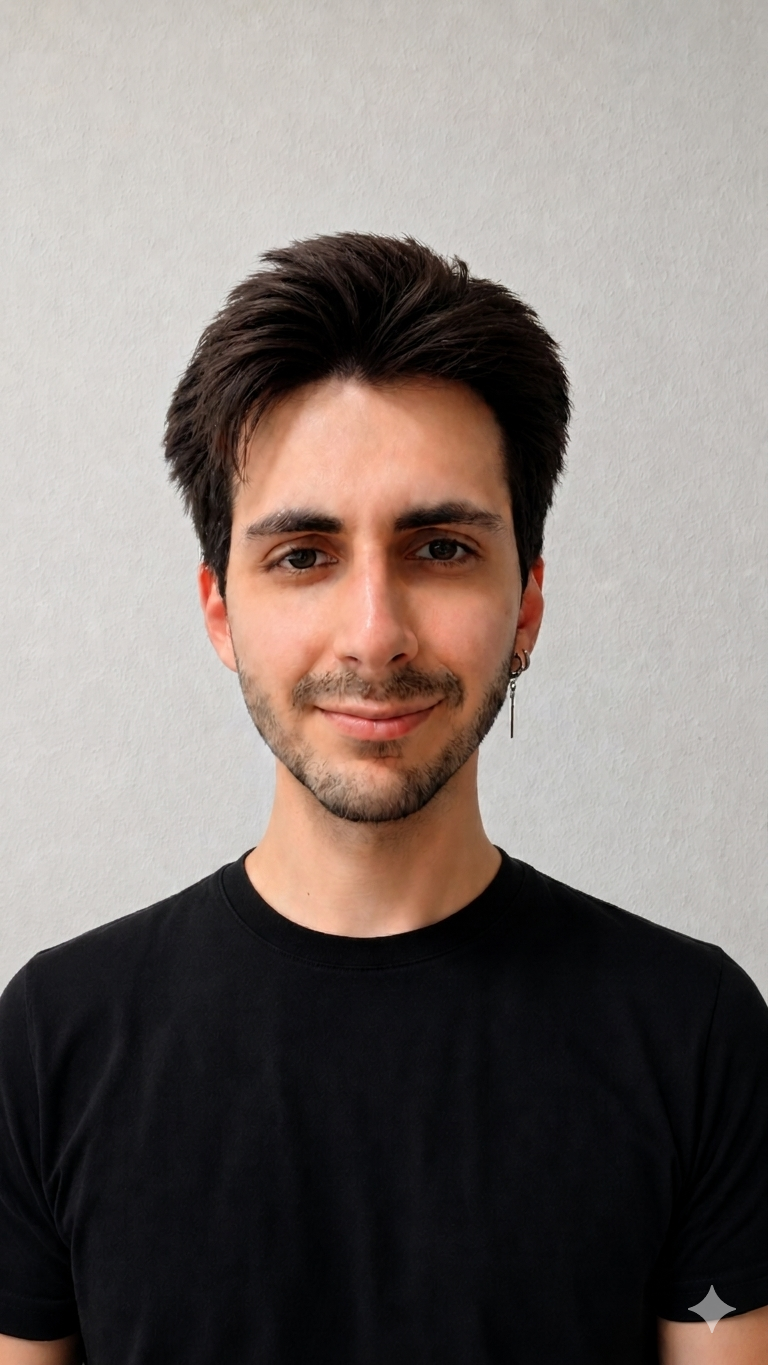
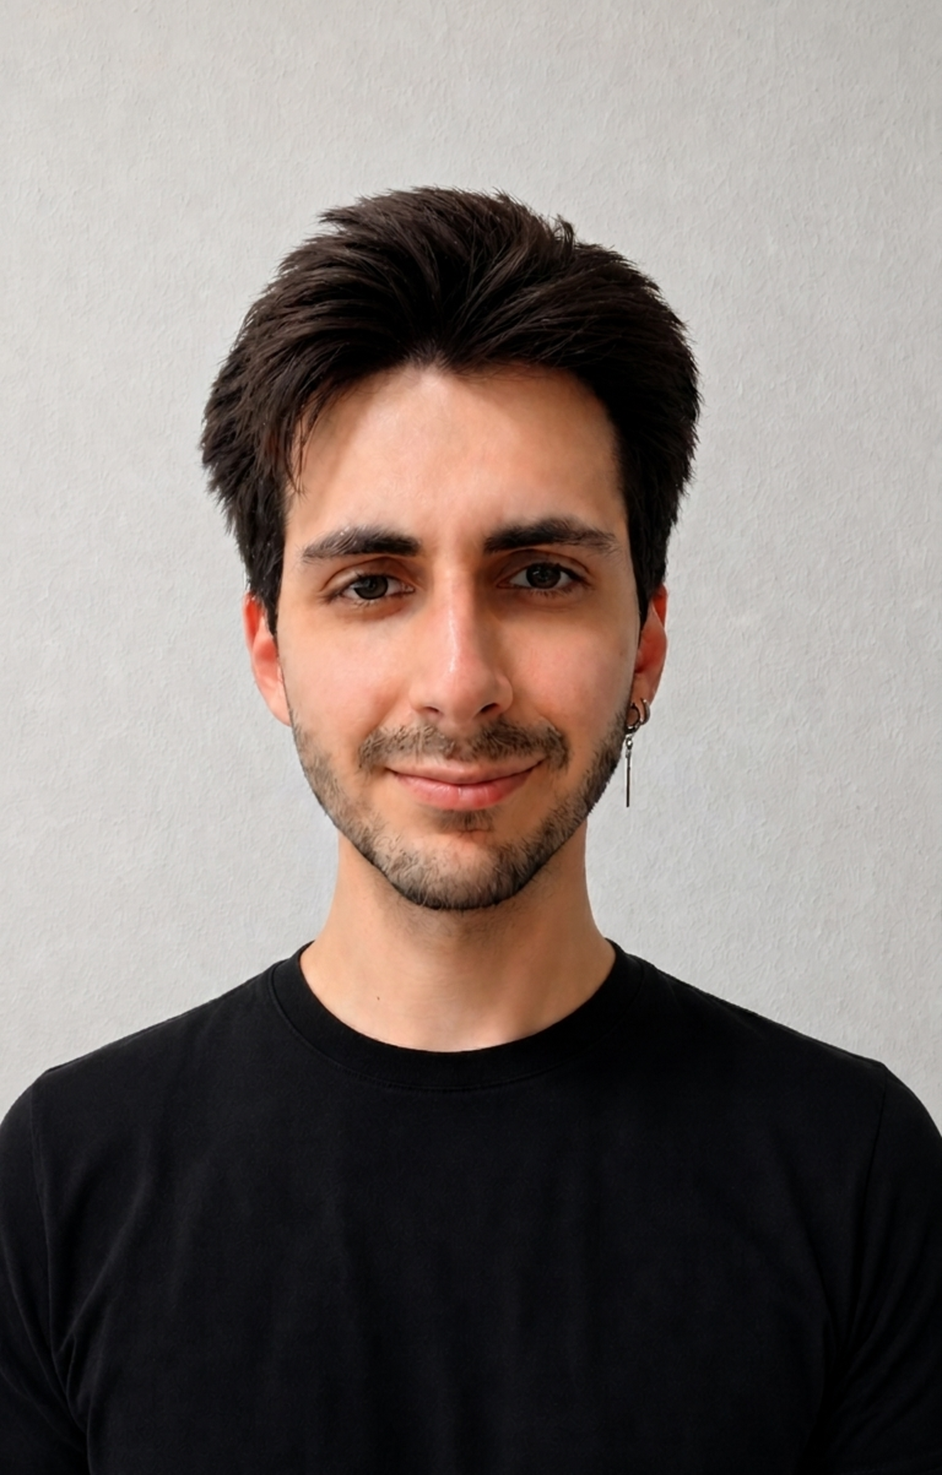
feat: add accent color picker and align contact form with section title

diff --git a/src/styles/variables.css b/src/styles/variables.css
@@ -8,12 +8,8 @@
   --text-primary: #f0f0f0;
   --text-secondary: #888888;
   --text-muted: #555555;
-  --accent: #6ee7b7;
-  --accent-dim: rgba(110, 231, 183, 0.1);
-  --accent-glow: rgba(110, 231, 183, 0.25);
   --shadow: 0 4px 24px rgba(0, 0, 0, 0.6);
   --shadow-card: 0 2px 12px rgba(0, 0, 0, 0.4);
-  --gradient-hero: radial-gradient(ellipse 80% 60% at 50% -10%, rgba(110, 231, 183, 0.12) 0%, transparent 60%);
 }
 
 :root[data-theme='light'] {
@@ -26,10 +22,62 @@
   --text-primary: #111827;
   --text-secondary: #6b7280;
   --text-muted: #9ca3af;
+  --shadow: 0 4px 24px rgba(0, 0, 0, 0.08);
+  --shadow-card: 0 2px 12px rgba(0, 0, 0, 0.06);
+}
+
+/* Green (default) */
+:root[data-accent='green'][data-theme='dark'] {
+  --accent: #6ee7b7;
+  --accent-dim: rgba(110, 231, 183, 0.1);
+  --accent-glow: rgba(110, 231, 183, 0.25);
+  --gradient-hero: radial-gradient(ellipse 80% 60% at 50% -10%, rgba(110, 231, 183, 0.12) 0%, transparent 60%);
+}
+:root[data-accent='green'][data-theme='light'] {
   --accent: #059669;
   --accent-dim: rgba(5, 150, 105, 0.08);
   --accent-glow: rgba(5, 150, 105, 0.2);
-  --shadow: 0 4px 24px rgba(0, 0, 0, 0.08);
-  --shadow-card: 0 2px 12px rgba(0, 0, 0, 0.06);
   --gradient-hero: radial-gradient(ellipse 80% 60% at 50% -10%, rgba(5, 150, 105, 0.08) 0%, transparent 60%);
+}
+
+/* Red */
+:root[data-accent='red'][data-theme='dark'] {
+  --accent: #f87171;
+  --accent-dim: rgba(248, 113, 113, 0.1);
+  --accent-glow: rgba(248, 113, 113, 0.25);
+  --gradient-hero: radial-gradient(ellipse 80% 60% at 50% -10%, rgba(248, 113, 113, 0.12) 0%, transparent 60%);
+}
+:root[data-accent='red'][data-theme='light'] {
+  --accent: #dc2626;
+  --accent-dim: rgba(220, 38, 38, 0.08);
+  --accent-glow: rgba(220, 38, 38, 0.2);
+  --gradient-hero: radial-gradient(ellipse 80% 60% at 50% -10%, rgba(220, 38, 38, 0.08) 0%, transparent 60%);
+}
+
+/* Blue */
+:root[data-accent='blue'][data-theme='dark'] {
+  --accent: #60a5fa;
+  --accent-dim: rgba(96, 165, 250, 0.1);
+  --accent-glow: rgba(96, 165, 250, 0.25);
+  --gradient-hero: radial-gradient(ellipse 80% 60% at 50% -10%, rgba(96, 165, 250, 0.12) 0%, transparent 60%);
+}
+:root[data-accent='blue'][data-theme='light'] {
+  --accent: #2563eb;
+  --accent-dim: rgba(37, 99, 235, 0.08);
+  --accent-glow: rgba(37, 99, 235, 0.2);
+  --gradient-hero: radial-gradient(ellipse 80% 60% at 50% -10%, rgba(37, 99, 235, 0.08) 0%, transparent 60%);
+}
+
+/* Purple */
+:root[data-accent='purple'][data-theme='dark'] {
+  --accent: #c084fc;
+  --accent-dim: rgba(192, 132, 252, 0.1);
+  --accent-glow: rgba(192, 132, 252, 0.25);
+  --gradient-hero: radial-gradient(ellipse 80% 60% at 50% -10%, rgba(192, 132, 252, 0.12) 0%, transparent 60%);
+}
+:root[data-accent='purple'][data-theme='light'] {
+  --accent: #7c3aed;
+  --accent-dim: rgba(124, 58, 237, 0.08);
+  --accent-glow: rgba(124, 58, 237, 0.2);
+  --gradient-hero: radial-gradient(ellipse 80% 60% at 50% -10%, rgba(124, 58, 237, 0.08) 0%, transparent 60%);
 }

diff --git a/src/components/ui/AccentPicker.module.css b/src/components/ui/AccentPicker.module.css
@@ -1,0 +1,56 @@
+.wrapper {
+  position: relative;
+  display: flex;
+  align-items: center;
+  gap: 0.5rem;
+}
+
+.label {
+  position: absolute;
+  bottom: calc(100% + 8px);
+  left: 50%;
+  transform: translateX(-50%) translateY(4px);
+  font-size: 0.75rem;
+  color: var(--text-secondary);
+  white-space: nowrap;
+  background: var(--bg-card);
+  border: 1px solid var(--border);
+  padding: 0.3rem 0.65rem;
+  border-radius: 6px;
+  opacity: 0;
+  pointer-events: none;
+  transition: opacity 0.2s, transform 0.2s;
+  z-index: 10;
+}
+
+.wrapper:hover .label {
+  opacity: 1;
+  transform: translateX(-50%) translateY(0);
+}
+
+.picker {
+  display: flex;
+  align-items: center;
+  gap: 0.375rem;
+}
+
+.dot {
+  width: 14px;
+  height: 14px;
+  border-radius: 50%;
+  background: var(--dot-color);
+  border: 2px solid transparent;
+  cursor: pointer;
+  transition: transform 0.15s, border-color 0.15s;
+  padding: 0;
+  flex-shrink: 0;
+}
+
+.dot:hover {
+  transform: scale(1.2);
+}
+
+.active {
+  border-color: var(--text-primary);
+  transform: scale(1.15);
+}

diff --git a/src/context/AccentContext.tsx b/src/context/AccentContext.tsx
@@ -1,0 +1,35 @@
+import { createContext, useContext, useEffect, useState } from 'react'
+
+export type Accent = 'green' | 'red' | 'blue' | 'purple'
+
+interface AccentContextType {
+  accent: Accent
+  setAccent: (a: Accent) => void
+}
+
+const AccentContext = createContext<AccentContextType | undefined>(undefined)
+
+export function AccentProvider({ children }: { children: React.ReactNode }) {
+  const [accent, setAccentState] = useState<Accent>(() =>
+    (localStorage.getItem('accent') as Accent) ?? 'green'
+  )
+
+  useEffect(() => {
+    document.documentElement.setAttribute('data-accent', accent)
+    localStorage.setItem('accent', accent)
+  }, [accent])
+
+  const setAccent = (a: Accent) => setAccentState(a)
+
+  return (
+    <AccentContext.Provider value={{ accent, setAccent }}>
+      {children}
+    </AccentContext.Provider>
+  )
+}
+
+export function useAccent() {
+  const ctx = useContext(AccentContext)
+  if (!ctx) throw new Error('useAccent must be used inside AccentProvider')
+  return ctx
+}

diff --git a/src/components/ui/AccentPicker.tsx b/src/components/ui/AccentPicker.tsx
@@ -1,0 +1,30 @@
+import { useAccent, type Accent } from '../../context/AccentContext'
+import styles from './AccentPicker.module.css'
+
+const accents: { value: Accent; color: string }[] = [
+  { value: 'green',  color: '#6ee7b7' },
+  { value: 'red',    color: '#f87171' },
+  { value: 'blue',   color: '#60a5fa' },
+  { value: 'purple', color: '#c084fc' },
+]
+
+export function AccentPicker() {
+  const { accent, setAccent } = useAccent()
+
+  return (
+    <div className={styles.wrapper}>
+      <div className={styles.picker} role="group" aria-label="Accent color">
+        {accents.map(a => (
+          <button
+            key={a.value}
+            className={`${styles.dot} ${accent === a.value ? styles.active : ''}`}
+            style={{ '--dot-color': a.color } as React.CSSProperties}
+            onClick={() => setAccent(a.value)}
+            aria-label={a.value}
+            aria-pressed={accent === a.value}
+          />
+        ))}
+      </div>
+    </div>
+  )
+}

diff --git a/src/components/sections/Contact.tsx b/src/components/sections/Contact.tsx
@@ -43,15 +43,6 @@ export function Contact() {
   return (
     <section id="contact" className={`section ${styles.contact}`} ref={ref as React.RefObject<HTMLElement>}>
       <div className="container">
-        <motion.div
-          initial={{ opacity: 0, y: 20 }}
-          animate={inView ? { opacity: 1, y: 0 } : {}}
-          transition={{ duration: 0.5 }}
-        >
-          <p className="section-subtitle">{t('contact.subtitle')}</p>
-          <h2 className="section-title">{t('contact.title')} <span className="accent">{t('contact.title_accent')}</span></h2>
-        </motion.div>
-
         <div className={styles.grid}>
           <motion.div
             className={styles.info}
@@ -59,6 +50,14 @@ export function Contact() {
             animate={inView ? { opacity: 1, x: 0 } : {}}
             transition={{ duration: 0.6, delay: 0.1 }}
           >
+            <motion.div
+              initial={{ opacity: 0, y: 20 }}
+              animate={inView ? { opacity: 1, y: 0 } : {}}
+              transition={{ duration: 0.5 }}
+            >
+              <p className="section-subtitle">{t('contact.subtitle')}</p>
+              <h2 className="section-title">{t('contact.title')} <span className="accent">{t('contact.title_accent')}</span></h2>
+            </motion.div>
             <p className={styles.infoText}>{t('contact.info_text')}</p>
             <div className={styles.contactLinks}>
               <a href="mailto:[email redacted]" className={styles.contactLink}>

diff --git a/src/main.tsx b/src/main.tsx
@@ -1,6 +1,7 @@
 import { StrictMode } from 'react'
 import { createRoot } from 'react-dom/client'
 import { ThemeProvider } from './context/ThemeContext'
+import { AccentProvider } from './context/AccentContext'
 import './i18n/config'
 import './styles/global.css'
 import App from './App.tsx'
@@ -8,7 +9,9 @@ import App from './App.tsx'
 createRoot(document.getElementById('root')!).render(
   <StrictMode>
     <ThemeProvider>
-      <App />
+      <AccentProvider>
+        <App />
+      </AccentProvider>
     </ThemeProvider>
   </StrictMode>,
 )

diff --git a/src/components/layout/Header.tsx b/src/components/layout/Header.tsx
@@ -3,6 +3,7 @@ import { useTranslation } from 'react-i18next'
 import { Menu, X } from 'lucide-react'
 import { ThemeToggle } from '../ui/ThemeToggle'
 import { LangSwitcher } from '../ui/LangSwitcher'
+import { AccentPicker } from '../ui/AccentPicker'
 import styles from './Header.module.css'
 
 const NAV_HREFS = ['#about', '#projects', '#contact'] as const
@@ -43,6 +44,7 @@ export function Header() {
         <div className={styles.actions}>
           <LangSwitcher />
           <ThemeToggle />
+          <AccentPicker />
           <button
             className={styles.menuBtn}
             onClick={() => setMenuOpen(o => !o)}

diff --git a/src/App.tsx b/src/App.tsx
@@ -4,7 +4,6 @@ import { Hero } from './components/sections/Hero'
 import { About } from './components/sections/About'
 import { Projects } from './components/sections/Projects'
 import { Contact } from './components/sections/Contact'
-
 function App() {
   return (
     <>

diff --git a/src/components/sections/Contact.module.css b/src/components/sections/Contact.module.css
@@ -48,6 +48,7 @@
   display: flex;
   flex-direction: column;
   gap: 1.25rem;
+  padding-top: 2.5rem;
 }
 
 .row {